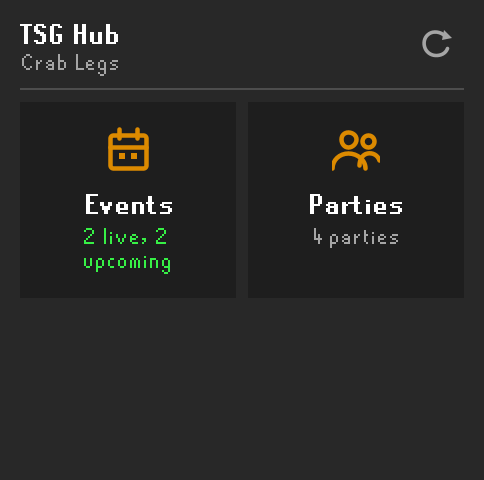
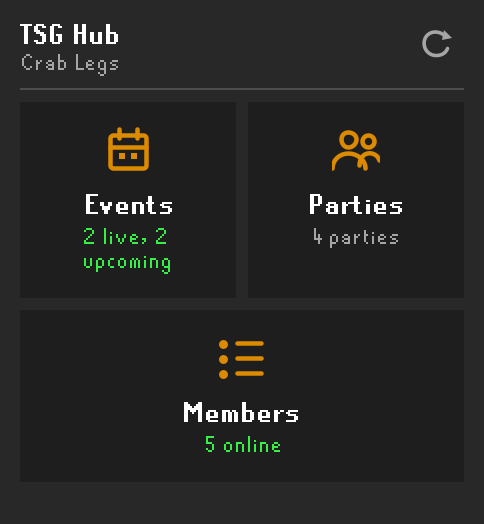
feat: add members tile

diff --git a/src/main/java/com/tsghub/TsgHubSidebarPanel.java b/src/main/java/com/tsghub/TsgHubSidebarPanel.java
@@ -43,7 +43,7 @@ final class TsgHubSidebarPanel extends PluginPanel
 	private static final int CARD_TITLE_W = 150;
 	private static final DateTimeFormatter TIME = DateTimeFormatter.ofPattern("h:mm a");
 
-	private enum View { LOGGED_OUT, NOT_IN_CLAN, SHARING_OFF, HOME, EVENTS, PREVIEW, BOARD, COMPETITION_PREVIEW, COMPETITION, DROP_PARTY, GROUPS }
+	private enum View { LOGGED_OUT, NOT_IN_CLAN, SHARING_OFF, HOME, EVENTS, PREVIEW, BOARD, COMPETITION_PREVIEW, COMPETITION, DROP_PARTY, GROUPS, MEMBERS }
 
 	private final TsgHubPlugin plugin;
 	private final JButton back = TsgHubUi.iconButton(new TsgHubUi.BackIcon(), "Back to events");
@@ -79,6 +79,8 @@ final class TsgHubSidebarPanel extends PluginPanel
 	private int busy;
 	private volatile boolean active;
 	private volatile boolean boardShowing;
+	private volatile boolean membersWanted;
+	private JsonArray members;
 	private JsonObject competitionEvent;
 	private String competitionName = "";
 	private volatile String openCompetitionId;
@@ -132,7 +134,8 @@ final class TsgHubSidebarPanel extends PluginPanel
 		this.groupMembers = groupMembers;
 		sections = Arrays.asList(
 			new Section("Events", "Clan events and your team's board", new TsgHubUi.CalendarIcon(), this::openEvents, this::eventsSummary, () -> liveEvents() > 0),
-			new Section("Parties", "Join a clanmate's party or start one", new TsgHubUi.PartyIcon(), this::showParties, this::partiesSummary, () -> plugin.groups().inGroup()));
+			new Section("Parties", "Join a clanmate's party or start one", new TsgHubUi.PartyIcon(), this::showParties, this::partiesSummary, () -> plugin.groups().inGroup()),
+			new Section("Members", "See what clanmates are up to", new TsgHubUi.MembersIcon(), this::showMembers, this::membersSummary, () -> onlineCount() > 0));
 		setLayout(new BorderLayout(0, 6));
 		setBackground(TsgHubUi.BACKGROUND);
 		setBorder(BorderFactory.createEmptyBorder(10, 10, 10, 10));
@@ -189,7 +192,7 @@ final class TsgHubSidebarPanel extends PluginPanel
 				renderGroups();
 				return;
 			}
-			if (view == View.GROUPS || view == View.EVENTS)
+			if (view == View.GROUPS || view == View.EVENTS || view == View.MEMBERS)
 			{
 				showHome();
 				return;
@@ -218,8 +221,10 @@ final class TsgHubSidebarPanel extends PluginPanel
 			{
 				plugin.loadClanEvents();
 				plugin.groups().refresh();
+				plugin.presence().loadMembers(false);
 			}
 			else if (view == View.GROUPS) plugin.groups().refresh();
+			else if (view == View.MEMBERS) plugin.presence().loadMembers(false);
 			else if (view == View.BOARD) plugin.refreshBoard();
 			else if (view == View.COMPETITION && competitionEvent != null) plugin.openCompetition(TsgHubUi.str(competitionEvent, "id"));
 			else plugin.loadClanEvents();
@@ -288,6 +293,11 @@ final class TsgHubSidebarPanel extends PluginPanel
 		return active && boardShowing;
 	}
 
+	boolean wantsMembers()
+	{
+		return active && membersWanted;
+	}
+
 	@Override
 	public void onActivate()
 	{
@@ -338,7 +348,8 @@ final class TsgHubSidebarPanel extends PluginPanel
 		page.add(TsgHubUi.label("Share your progress", TsgHubUi.TEXT, FontManager.getRunescapeBoldFont()));
 		page.add(Box.createVerticalStrut(6));
 		page.add(TsgHubUi.wrapped("TSG Hub tracks your boss kills, drops and raids for clan events. "
-			+ "To do that it sends your RuneScape name, clan and rank, and that progress to your clan's event service.",
+			+ "To do that it sends your RuneScape name, clan and rank, and that progress to your clan's event service. "
+			+ "While you're in clan chat, clanmates also see your world, area and what you're doing.",
 			TsgHubUi.MUTED, FontManager.getRunescapeSmallFont(), TEXT_W));
 		page.add(Box.createVerticalStrut(4));
 		page.add(TsgHubUi.wrapped("Nothing is ever posted in game chat.", TsgHubUi.MUTED, FontManager.getRunescapeSmallFont(), TEXT_W));
@@ -363,6 +374,7 @@ final class TsgHubSidebarPanel extends PluginPanel
 		setView(View.HOME);
 		renderHome();
 		plugin.groups().refresh();
+		plugin.presence().loadMembers(true);
 	}
 
 	private void renderHome()
@@ -440,6 +452,85 @@ final class TsgHubSidebarPanel extends PluginPanel
 		if (groupList == null) return "Loading...";
 		if (groupList.size() == 0) return "No parties yet";
 		return groupList.size() == 1 ? "1 party" : groupList.size() + " parties";
+	}
+
+	private int onlineCount()
+	{
+		return members == null ? 0 : members.size();
+	}
+
+	private String membersSummary()
+	{
+		if (members == null) return "Loading...";
+		if (members.size() == 0) return "Nobody online";
+		return members.size() + " online";
+	}
+
+	void setMembers(JsonArray members)
+	{
+		this.members = members;
+		if (view == View.MEMBERS) renderMembers();
+		else if (view == View.HOME) renderHome();
+	}
+
+	void showMembers()
+	{
+		setView(View.MEMBERS);
+		renderMembers();
+		plugin.presence().loadMembers(false);
+	}
+
+	private void renderMembers()
+	{
+		Font small = FontManager.getRunescapeSmallFont();
+		setHeader("Members", "", true, true);
+		page.removeAll();
+		if (members == null)
+		{
+			page.add(TsgHubUi.label("Loading members...", TsgHubUi.MUTED, small));
+		}
+		else if (members.size() == 0)
+		{
+			page.add(errorPanel("Nobody online", "Clanmates show up here while they're in clan chat with TSG Hub sharing on."));
+		}
+		else
+		{
+			for (int i = 0; i < members.size(); i++)
+			{
+				page.add(memberCard(members.get(i).getAsJsonObject()));
+				page.add(Box.createVerticalStrut(5));
+			}
+		}
+		page.add(Box.createVerticalStrut(8));
+		page.add(TsgHubUi.wrapped("Shows clanmates in clan chat with TSG Hub sharing on. Leave clan chat to hide yourself.", TsgHubUi.MUTED, small, TEXT_W));
+		refreshPage();
+	}
+
+	private JPanel memberCard(JsonObject member)
+	{
+		String name = TsgHubUi.str(member, "displayName");
+		String activity = TsgHubUi.str(member, "activity");
+		String area = TsgHubUi.str(member, "area");
+		int world = TsgHubUi.integer(member, "world", 0);
+		JPanel card = TsgHubUi.card();
+		JPanel text = TsgHubUi.stack();
+		text.add(TsgHubUi.label(TsgHubUi.html("<b>" + TsgHubUi.escape(name) + "</b>", CARD_TITLE_W), TsgHubUi.TEXT, FontManager.getRunescapeFont()));
+		text.add(Box.createVerticalStrut(2));
+		if (!activity.isEmpty())
+			text.add(TsgHubUi.wrapped(activity, "Idle".equals(activity) ? TsgHubUi.MUTED : TsgHubUi.SUCCESS, FontManager.getRunescapeSmallFont(), CARD_TITLE_W));
+		List<String> where = new ArrayList<>();
+		if (world > 0) where.add("W" + world);
+		if (!area.isEmpty() && !activity.endsWith(area)) where.add(area);
+		if (!where.isEmpty()) text.add(TsgHubUi.wrapped(String.join(" · ", where), TsgHubUi.MUTED, FontManager.getRunescapeSmallFont(), CARD_TITLE_W));
+		card.add(text, BorderLayout.CENTER);
+		if (TsgHubUi.samePlayer(name, plugin.getDetectedPlayerName()))
+		{
+			JPanel east = new JPanel(new BorderLayout());
+			east.setOpaque(false);
+			east.add(TsgHubUi.badge("You", TsgHubUi.SUCCESS), BorderLayout.NORTH);
+			card.add(east, BorderLayout.EAST);
+		}
+		return TsgHubUi.fitHeight(card);
 	}
 
 	private void openEvents()
@@ -886,9 +977,10 @@ final class TsgHubSidebarPanel extends PluginPanel
 	{
 		view = next;
 		boardShowing = next == View.BOARD;
+		membersWanted = next == View.MEMBERS || next == View.HOME;
 		if (next != View.COMPETITION) openCompetitionId = null;
 		centerLayout.show(center, next == View.BOARD ? "board" : next == View.GROUPS ? "groups" : "page");
-		back.setToolTipText(next == View.EVENTS || next == View.GROUPS ? "Home" : "Back to events");
+		back.setToolTipText(next == View.EVENTS || next == View.GROUPS || next == View.MEMBERS ? "Home" : "Back to events");
 		layoutHeader();
 	}
 

diff --git a/src/main/java/com/tsghub/TsgHubPresence.java b/src/main/java/com/tsghub/TsgHubPresence.java
@@ -1,8 +1,12 @@
 package com.tsghub;
 
+import com.google.gson.JsonArray;
 import com.google.gson.JsonObject;
+import com.tsghub.TsgHubUi.Tone;
 import java.util.concurrent.ScheduledExecutorService;
+import java.util.function.Consumer;
 import java.util.function.Supplier;
+import javax.swing.SwingUtilities;
 import net.runelite.api.Client;
 import net.runelite.api.GameState;
 import net.runelite.api.Player;
@@ -11,6 +15,7 @@ import net.runelite.api.coords.WorldPoint;
 
 final class TsgHubPresence
 {
+	static final int REFRESH_SECONDS = 30;
 	private static final long HEARTBEAT_MILLIS = 30_000;
 	private static final long MIN_GAP_MILLIS = 5_000;
 
@@ -18,16 +23,19 @@ final class TsgHubPresence
 	private final Client client;
 	private final ScheduledExecutorService executor;
 	private final Supplier<TsgHubApi> api;
+	private final Supplier<TsgHubSidebarPanel> sidebar;
 	private final ActivityDetector activity = new ActivityDetector();
 	private volatile JsonObject listed;
 	private volatile long sentAt;
 
-	TsgHubPresence(TsgHubPlugin plugin, Client client, ScheduledExecutorService executor, Supplier<TsgHubApi> api)
+	TsgHubPresence(TsgHubPlugin plugin, Client client, ScheduledExecutorService executor,
+		Supplier<TsgHubApi> api, Supplier<TsgHubSidebarPanel> sidebar)
 	{
 		this.plugin = plugin;
 		this.client = client;
 		this.executor = executor;
 		this.api = api;
+		this.sidebar = sidebar;
 	}
 
 	void onXp(Skill skill, int xp)
@@ -69,6 +77,28 @@ final class TsgHubPresence
 		Thread thread = new Thread(() -> post("/v1/presence/leave", body), "tsg-hub-presence-leave");
 		thread.setDaemon(true);
 		thread.start();
+	}
+
+	void loadMembers(boolean quiet)
+	{
+		if (!canUse() || executor.isShutdown()) return;
+		String clan = encode(plugin.getDetectedClanName());
+		if (!quiet) ui(s -> s.setBusy(true));
+		executor.submit(() -> {
+			try
+			{
+				JsonArray members = api.get().request("GET", "/v1/presence?clanName=" + clan, null, null).getAsJsonArray("members");
+				ui(s -> s.setMembers(members));
+			}
+			catch (Exception e) { if (!quiet) ui(s -> s.setStatus("Couldn't load members. " + TsgHubUi.friendlyError(e), Tone.ERROR)); }
+			finally { if (!quiet) ui(s -> s.setBusy(false)); }
+		});
+	}
+
+	void autoRefresh()
+	{
+		TsgHubSidebarPanel s = sidebar.get();
+		if (s != null && s.wantsMembers()) loadMembers(true);
 	}
 
 	private JsonObject snapshot()
@@ -116,4 +146,22 @@ final class TsgHubPresence
 		catch (Exception ignored) { }
 	}
 
+	private boolean canUse()
+	{
+		return plugin.isInHubClan() && plugin.sharingEnabled() && !plugin.getDetectedPlayerName().isEmpty();
+	}
+
+	private static String encode(String value)
+	{
+		try { return java.net.URLEncoder.encode(value, java.nio.charset.StandardCharsets.UTF_8.name()); }
+		catch (java.io.UnsupportedEncodingException e) { return ""; }
+	}
+
+	private void ui(Consumer<TsgHubSidebarPanel> action)
+	{
+		SwingUtilities.invokeLater(() -> {
+			TsgHubSidebarPanel s = sidebar.get();
+			if (s != null) action.accept(s);
+		});
+	}
 }

diff --git a/src/test/java/com/tsghub/ReadmeScreenshots.java b/src/test/java/com/tsghub/ReadmeScreenshots.java
@@ -61,11 +61,12 @@ public class ReadmeScreenshots
 		set(plugin, "detectedClanRank", 100);
 		set(plugin, "detectedPlayerName", "Crab Legs");
 		set(plugin, "groups", new TsgHubGroups(plugin, null, (PartyService) unsafe().allocateInstance(PartyService.class), null, null, null));
+		set(plugin, "presence", new TsgHubPresence(plugin, null, null, null, null));
 
 		TsgHubSidebarPanel sidebar = new TsgHubSidebarPanel(plugin, new GroupMembersPanel(new GroupViewSettings() {}, null, null));
 
 		sidebar.showSharingOff();
-		shoot(sidebar, SIDEBAR_W, 210, "sharing");
+		shoot(sidebar, SIDEBAR_W, 250, "sharing");
 
 		JsonArray events = data.getAsJsonObject("eventList").getAsJsonArray("events");
 		for (int i = 0; i < events.size(); i++)
@@ -76,8 +77,9 @@ public class ReadmeScreenshots
 		}
 		sidebar.setEvents(events);
 		sidebar.setGroups(data.getAsJsonObject("groupsList").getAsJsonArray("groups"));
+		sidebar.setMembers(data.getAsJsonObject("membersList").getAsJsonArray("members"));
 		sidebar.showHome();
-		shoot(sidebar, SIDEBAR_W, 240, "home");
+		shoot(sidebar, SIDEBAR_W, 262, "home");
 		sidebar.showEventList();
 		BufferedImage eventList = shoot(sidebar, SIDEBAR_W, 480, "events");
 
@@ -93,6 +95,9 @@ public class ReadmeScreenshots
 
 		sidebar.showParties();
 		BufferedImage parties = shoot(sidebar, SIDEBAR_W, 480, "parties");
+
+		sidebar.showMembers();
+		shoot(sidebar, SIDEBAR_W, 420, "members");
 
 		TsgHubPanel organizer = new TsgHubPanel(plugin);
 		organizer.setManagedEvents(data.getAsJsonObject("managed").getAsJsonArray("events"));

diff --git a/src/main/java/com/tsghub/TsgHubPlugin.java b/src/main/java/com/tsghub/TsgHubPlugin.java
@@ -157,7 +157,8 @@ public class TsgHubPlugin extends Plugin
 		eventBus.register(groupTracker);
 		groupTracker.start();
 		executor.scheduleAtFixedRate(groups::heartbeat, 5, TsgHubGroups.HEARTBEAT_SECONDS, TimeUnit.SECONDS);
-		presence = new TsgHubPresence(this, client, executor, this::api);
+		presence = new TsgHubPresence(this, client, executor, this::api, () -> sidebar);
+		executor.scheduleAtFixedRate(presence::autoRefresh, TsgHubPresence.REFRESH_SECONDS, TsgHubPresence.REFRESH_SECONDS, TimeUnit.SECONDS);
 		boardOverlay = new TsgHubBoardOverlay(client);
 		overlayManager.add(boardOverlay);
 		mouseManager.registerMouseListener(boardOverlay);
@@ -250,6 +251,7 @@ public class TsgHubPlugin extends Plugin
 	String getDetectedClanName() { return detectedClanName; }
 	boolean sharingEnabled() { return config.dataSharingOptIn(); }
 	TsgHubGroups groups() { return groups; }
+	TsgHubPresence presence() { return presence; }
 	boolean inClanChat() { return inClanChat; }
 	String getDetectedPlayerName() { return detectedPlayerName; }
 	int getDetectedClanRank() { return detectedClanRank; }

diff --git a/src/main/java/com/tsghub/TsgHubUi.java b/src/main/java/com/tsghub/TsgHubUi.java
@@ -784,6 +784,18 @@ final class TsgHubUi
 		}
 	}
 
+	static final class MembersIcon extends TileIcon
+	{
+		@Override void paint(Graphics2D g)
+		{
+			for (int y = 3; y <= 13; y += 5)
+			{
+				g.fillOval(1, y - 1, 3, 3);
+				g.drawLine(7, y, 15, y);
+			}
+		}
+	}
+
 	static final class CheckIcon implements Icon
 	{
 		@Override public int getIconWidth() { return 14; }

diff --git a/README.md b/README.md
@@ -12,6 +12,7 @@ Clan events for **Type Shiii Gaming** (TSG), right in your RuneLite sidebar. Joi
 - **Skill of the Week** and **Boss of the Week** leaderboards you join with one click.
 - **Custom** events (drop parties, clan trips, anything else) announced with the time, world and location.
 - **Clan parties** for raids, bossing and skilling. Join with one click, no passphrase to type, and see your party's health, prayer, gear, inventory and skills live.
+- **Members** list showing which clanmates are online, their world, area and what they're doing.
 - **Admin tools** for Clan Administrators: create events, teams and tasks, and review proof, all without leaving the game.
 
 ## Bingo
@@ -74,6 +75,23 @@ The **Parties** section lists every open party in the clan, with its activity, w
 There's no passphrase to share. Once you're in, each member's panel shows their health, prayer, special attack, run energy, gear, inventory, skills and active prayers, live over RuneLite's party connection.
 
 A party closes when its last member leaves. Members drop out after 3 minutes without checking in, or after 30 minutes at the login screen.
+
+</td>
+</tr>
+</table>
+
+## Members
+
+<table>
+<tr>
+<td valign="top"><img src="docs/images/members.png" width="242" alt="Online clan members with their world, area and activity"></td>
+<td valign="top">
+
+The **Members** section lists clanmates who are in clan chat with sharing on. Each row shows their world, area and what they're doing, such as `Skilling - Mining`, `Bossing - Vorkath` or `Raiding - Chambers of Xeric`.
+
+Activity is detected automatically from where you are and the XP you gain. Only the area name is sent, never your exact tile.
+
+Leave clan chat to hide yourself. You also drop off the list when you log out or turn sharing off.
 
 </td>
 </tr>
